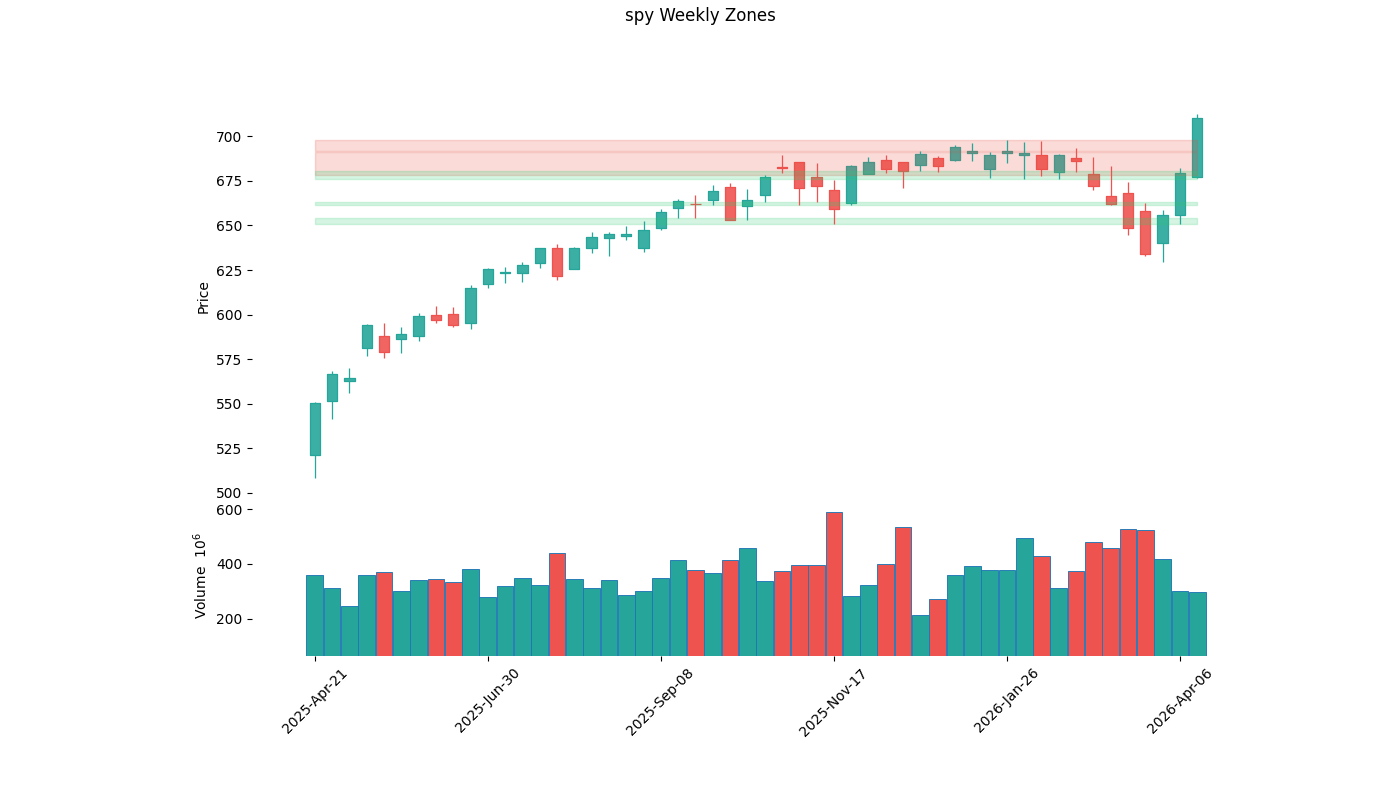
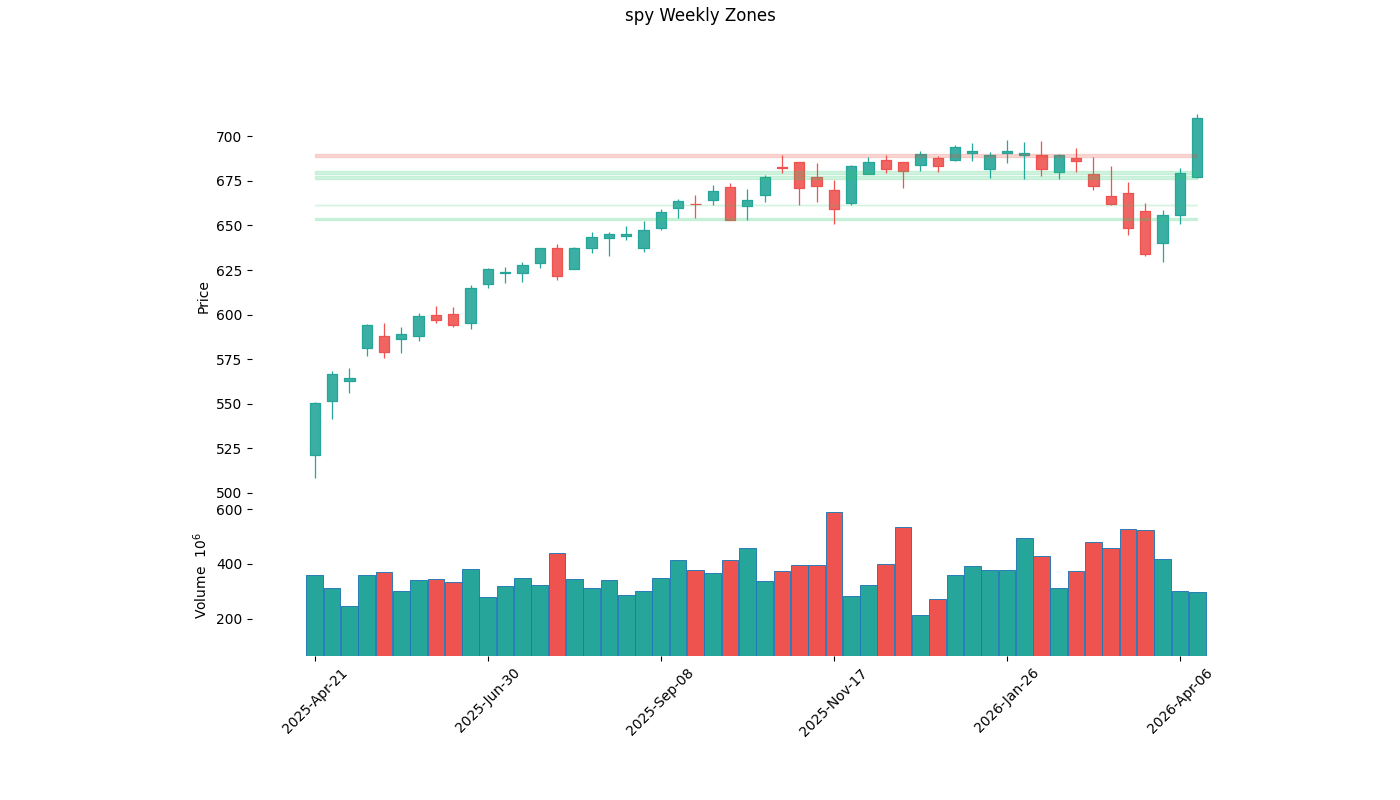
.
.

Changed region(s): [[0.215, 0.1562, 0.86, 0.2188], [0.215, 0.25, 0.86, 0.2812]]

diff --git a/dashboard.py b/dashboard.py
@@ -202,7 +202,7 @@ def save_zone_data_for_ticker(
     weekly_candles = convert_daily_to_weekly(all_daily_candles)
     weekly_zones = detect_zones_from_weekly(
         weekly_candles,
-        tolerance_pct=0.0075,
+        tolerance_pct=0.002,
         min_touches=2,
         overlap_min_touches=2,
     )

diff --git a/zone_drawer.py b/zone_drawer.py
@@ -122,7 +122,7 @@ def draw_weekly_zones_chart(
 
     weekly_zones = detect_zones_from_weekly(
         weekly_candles,
-        tolerance_pct=0.0075,
+        tolerance_pct=0.002,
         min_touches=2,
         overlap_min_touches=2
     )
